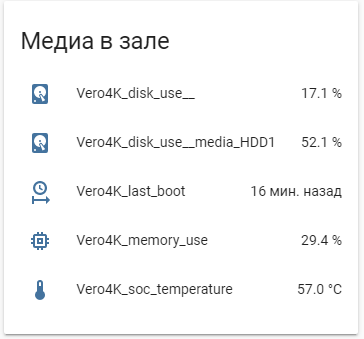
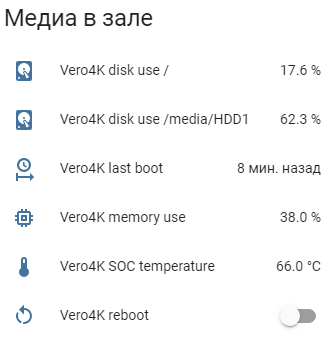
Reboot switch added

diff --git a/sys_sensors_mqtt.py b/sys_sensors_mqtt.py
@@ -3,6 +3,7 @@
 
 import datetime as dt
 import json
+from os import system
 from threading import Timer
 import time
 
@@ -47,6 +48,7 @@ class MainProcess(object):
                                  payload=json.dumps(payload), qos=1, retain=False)
 
     def get_temp(self):
+        # TODO: Add Raspberry Pi support
         self.logger.debug('Get SOC temperature')
         temp = '-'
         temps = psutil.sensors_temperatures()
@@ -142,6 +144,23 @@ class MainProcess(object):
             qos=1,
             retain=retain
         )
+        # Reboot switch.
+        payload = {'name': '{} reboot'.format(self.settings['device_name']),
+                   'state_topic': 'system-sensors/switch/{}/reboot'.format(self.settings['device_name']),
+                   'command_topic': 'system-sensors/switch/{}/reboot'.format(self.settings['device_name']),
+                   'icon': 'mdi:restart',
+                   'unique_id': '{}_reboot'.format(self.settings['device_name'].lower())
+                   }
+        payload.update(device_payload)
+        self.mqtt_client.publish(
+            topic='homeassistant/switch/{0}/reboot/config'.format(self.settings['device_name']),
+            payload=json.dumps(payload),
+            qos=1,
+            retain=retain
+        )
+        self.mqtt_client.publish(topic='system-sensors/switch/{}/reboot'.format(self.settings['device_name']),
+                                 payload='OFF', qos=1, retain=False)
+        # TODO: Add Shutdown switch
 
     def mqtt_connect(self):
         con_ok = False
@@ -156,11 +175,24 @@ class MainProcess(object):
                 time.sleep(60)
                 self.logger.debug('Reconnect to MQTT broker')
 
+    def on_message(self, client, userdata, message):
+        self.logger.debug('Message received: {} = {}'.format(message.topic, message.payload))
+        if message.topic == 'system-sensors/switch/{}/reboot'.format(self.settings['device_name']):
+            if message.payload == b'ON':
+                self.logger.info('Reboot command')
+                system('reboot')
+
     def on_connect(self, client, userdata, flags, rc):
         if rc == 0:
             self.logger.debug('Connection to MQTT broker successful')
             self.mqtt_send_config()
             self.logger.debug('Sent config to MQTT broker')
+            self.publish_timer.start()
+            (result, mid) = self.mqtt_client.subscribe('system-sensors/switch/{}/reboot'.format(self.settings['device_name']))
+            if result == mqtt.MQTT_ERR_SUCCESS:
+                self.logger.debug('Successfully subscribed to reboot topic')
+            else:
+                self.logger.error('Error subscribe to reboot topic')
         elif rc == 1:
             self.logger.error('Connection to MQTT broker refused. Incorrect protocol version')
             self.stop()
@@ -178,6 +210,8 @@ class MainProcess(object):
 
     def on_disconnect(self, client, userdata, rc):
         self.logger.debug('Disconnected from MQTT broker. {}'.format(rc))
+        self.publish_timer.cancel()
+        self.mqtt_client.unsubscribe('system-sensors/switch/{}/reboot'.format(self.settings['device_name']))
 
     def mqtt_publish_timer(self):
         self.mqtt_update_sensors()
@@ -187,10 +221,12 @@ class MainProcess(object):
         self.publish_timer.start()
 
     def run(self):
+        self.publish_timer = Timer(self.settings['update_interval'], self.mqtt_publish_timer)
         self.mqtt_client = mqtt.Client(client_id=self.settings['client_id'])
         self.mqtt_client.username_pw_set(self.settings['mqtt']['user'], self.settings['mqtt']['password'])
         self.mqtt_client.on_connect = self.on_connect
         self.mqtt_client.on_disconnect = self.on_disconnect
+        self.mqtt_client.on_message = self.on_message
         self.logger.info('Connecting to MQTT broker on host {}:{}'.format(self.settings['mqtt']['hostname'],
                                                                           self.settings['mqtt']['port']))
         self.is_run = True
@@ -198,8 +234,6 @@ class MainProcess(object):
         self.logger.info('Connected to MQTT broker on host {}:{}'.format(self.settings['mqtt']['hostname'],
                                                                          self.settings['mqtt']['port']))
         self.mqtt_client.loop_start()
-        self.publish_timer = Timer(self.settings['update_interval'], self.mqtt_publish_timer)
-        self.publish_timer.start()
         while self.is_run:
             time.sleep(1)
 

diff --git a/README.md b/README.md
@@ -8,12 +8,14 @@ The MQTT client sends the following data to the MQTT broker with the specified f
 * percentage of memory load;
 * percent drive load.
 
+The MQTT client also receive reboot command, that reboot system. 
+
 ![lovelace card](/images/image1.png)
 
 When the client is turned on, if it does not detect the MQTT broker at the specified address,
 the client continues to try connect every minute.
 
-The client logs 2 logs in the /var/log path: sys_sensors_mqtt_info.log and sys_sensors_mqtt_error.log.
+The client logs 2 logs in the /var/log path: sys_sensors_mqtt_info.log and sys_sensors_mqtt_error.log. Logs has rotation (max 1 MB, 1 back file)
 
 Tested only on Vero 4K.
 
